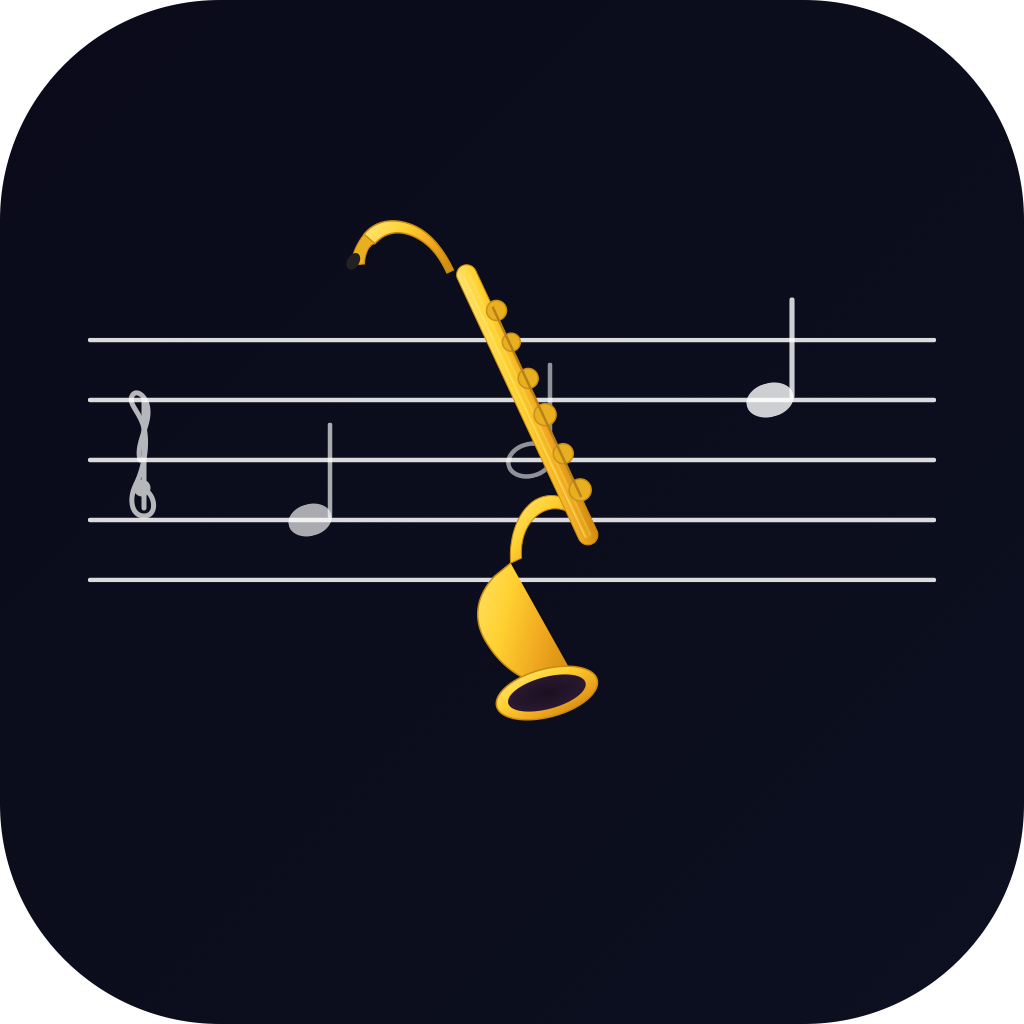
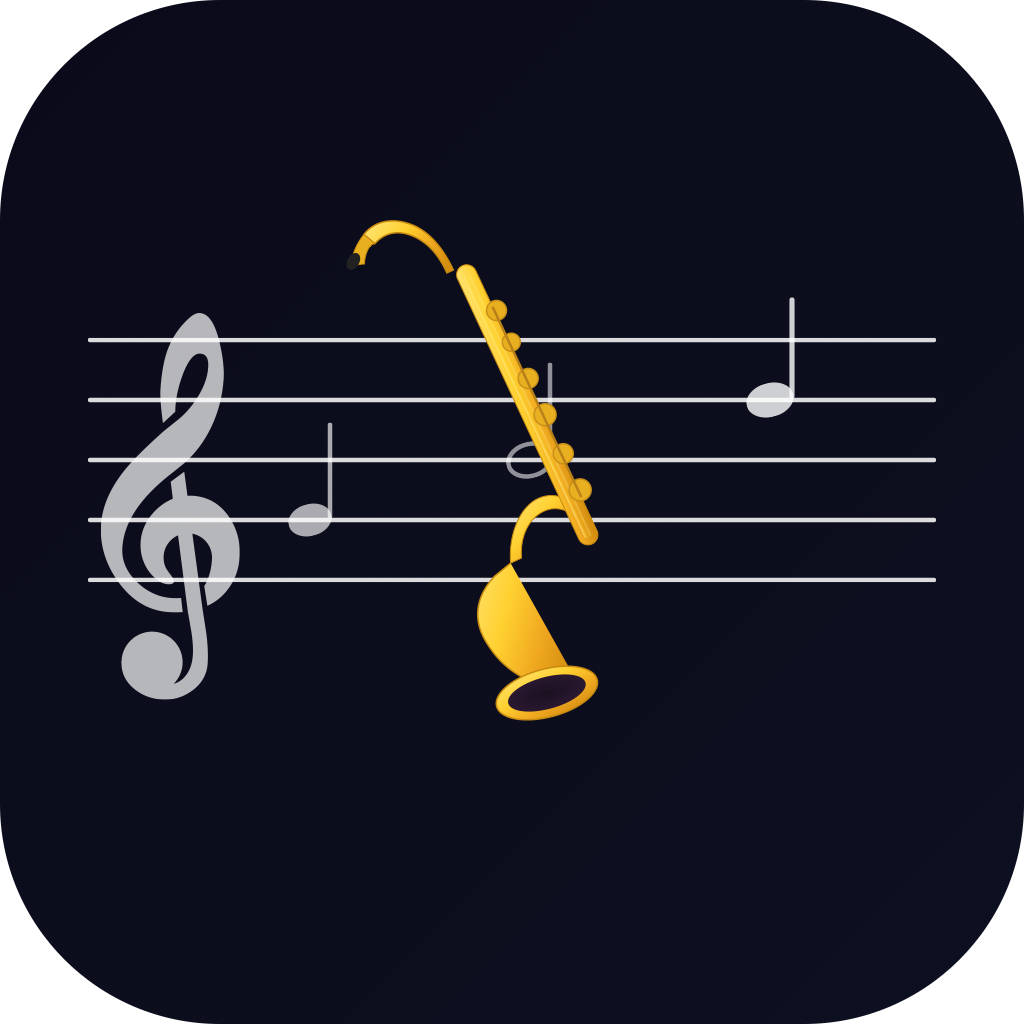
Fixed the strange looking of treble and bass clef

Changed region(s): [[0.0938, 0.2812, 0.25, 0.6875]]

diff --git a/rust/scorelib/src/renderer.rs b/rust/scorelib/src/renderer.rs
@@ -1061,38 +1061,114 @@ impl SvgBuilder {
     }
 
     fn treble_clef(&mut self, x: f64, y: f64) {
-        // Simplified treble clef using SVG paths
-        let path = format!(
-            "M{},{} \
-             c-2,-8 4,-16 4,-24 \
-             c0,-8 -6,-12 -8,-8 \
-             c-2,4 4,8 6,16 \
-             c2,8 0,20 -4,28 \
-             c-4,8 -2,16 4,16 \
-             c6,0 6,-8 2,-12",
-            x, y
-        );
+        // Professional treble clef (G clef) using path data from
+        // treble-clef-svgrepo-com.svg (two filled outlines).
+        //
+        // Original viewBox: 0 0 276.164 276.164
+        // G line in original coords ≈ y=148; center-x ≈ 138.
+        // Scaled by 0.27 and translated so the G line lands at (x, y).
+
+        let scale = 0.243;             // 10% smaller than 0.27
+        let tx = x - 138.0 * scale;  // ≈ x - 33.5
+        let ty = y - 148.0 * scale - 4.0;  // shifted up 4px
+
+        // Upper body — S-curve, hook, and vertical stroke outline
+        let p1 = "M156.716,61.478c-4.111,6.276-8.881,11.511-14.212,15.609\
+l-8.728,6.962c-13.339,11.855-22.937,21.433-28.542,28.464\
+c-10.209,12.788-15.806,25.779-16.65,38.611c-0.942,14.473,3.187,28.21,12.275,40.84\
+c9.636,13.458,21.8,20.754,36.164,21.69c3.291,0.218,6.897,0.182,9.896-0.015\
+l-1.121-10.104c-2.09,0.192-4.306,0.223-6.628,0.068\
+c-9.437-0.617-17.864-4.511-25.064-11.573c-7.524-7.333-10.895-15.415-10.287-24.7\
+c1.149-17.59,12.562-35.004,33.925-51.792l9.543-7.599\
+c8.394-7.174,15.192-16.191,20.216-26.825c4.971-10.556,7.886-21.983,8.673-33.96\
+c0.466-7.037-0.513-15.775-2.874-25.965c-3.241-13.839-7.854-20.765-14.136-21.179\
+c-2.232-0.138-4.676,0.986-7.658,3.617c-7.252,6.548-12.523,14.481-15.683,23.542\
+c-2.438,6.926-4.057,16.189-4.805,27.529c-0.313,4.72,0.313,13.438,1.805,23.962\
+l8.844-8.192c-0.028-1.183,0.005-2.413,0.096-3.703\
+c0.466-7.221,2.289-15.062,5.394-23.293c3.956-10.296,7.689-13.409,10.133-14.204\
+c0.668-0.218,1.32-0.298,2.015-0.254c3.185,0.212,6.358,1.559,5.815,9.979\
+C164.664,46.132,161.831,53.693,156.716,61.478z";
+
+        // Lower body — loop around G line, vertical stroke, and bottom ornament
+        let p2 = "M164.55,209.161c5.728-2.568,10.621-6.478,14.576-11.651\
+c5.055-6.561,7.897-14.316,8.467-23.047c0.72-10.719-1.854-20.438-7.617-28.895\
+c-6.322-9.264-14.98-14.317-25.745-15.026c-1.232-0.081-2.543-0.075-3.895,0.025\
+l-2.304-17.191l-9.668,7.112l1.483,12.194\
+c-5.789,2.393-10.827,6.17-15.017,11.255c-4.823,5.924-7.508,12.443-7.964,19.382\
+c-0.466,7.208,1.142,13.81,4.782,19.583c1.895,3.081,4.507,5.82,7.498,8.058\
+c4.906,3.65,10.563,3.376,11.459,1.393c0.906-1.983-2.455-5.095-5.09-9.248\
+c-1.502-2.351-2.242-5.173-2.242-8.497c0-7.053,4.256-13.116,10.317-15.799\
+l5.673,44.211l1.325,10.258c0.864,4.873,1.719,9.725,2.537,14.52\
+c1,6.488,1.352,12.112,1.041,16.715c-0.419,6.375-2.408,11.584-5.919,15.493\
+c-2.234,2.485-4.844,4.055-7.795,4.925c3.961-3.962,6.414-9.43,6.414-15.478\
+c0-12.075-9.792-21.872-21.87-21.872c-3.353,0-6.491,0.812-9.329,2.159\
+c-0.36,0.155-0.699,0.388-1.054,0.574c-0.779,0.425-1.559,0.85-2.286,1.362\
+c-0.249,0.187-0.487,0.403-0.732,0.605c-4.888,3.816-8.091,9.616-8.375,16.229\
+c0,0.01-0.011,0.021-0.011,0.031c0,0.005,0,0.01,0,0.016\
+c-0.013,0.311-0.09,0.59-0.09,0.896c0,0.259,0.067,0.492,0.078,0.74\
+c-0.011,7.084,2.933,13.179,8.839,18.118c5.584,4.666,12.277,7.28,19.892,7.777\
+c4.327,0.28,8.505-0.217,12.407-1.485c3.189-1.041,6.275-2.62,9.149-4.687\
+c6.96-5.022,10.75-11.584,11.272-19.532c0.399-6.063,0.094-13.235-0.937-21.411\
+l-2.838-18.429l-7.156-52.899c7.984,1.532,14.027,8.543,14.027,16.968\
+c0,5.986-1.937,15.431-5.551,20.376L164.55,209.161z";
+
         self.elements.push(format!(
-            r#"<path d="{}" fill="none" stroke="{}" stroke-width="2" stroke-linecap="round"/>"#,
-            path, NOTE_COLOR
+            r#"<g transform="translate({:.2},{:.2}) scale({})"><path d="{}" fill="{}"/><path d="{}" fill="{}"/></g>"#,
+            tx, ty, scale, p1, NOTE_COLOR, p2, NOTE_COLOR
         ));
-        // Dot at the curl
-        self.circle(x + 1.0, y + 14.0, 2.5, NOTE_COLOR);
     }
 
     fn bass_clef(&mut self, x: f64, y: f64) {
-        // Simplified bass clef
-        self.circle(x, y, 4.0, NOTE_COLOR);
-        let path = format!(
-            "M{},{} c8,2 12,8 12,16 c0,8 -4,14 -10,16",
-            x + 4.0, y - 2.0
-        );
+        // Professional bass clef (F clef) using path data from
+        // bass-clef-svgrepo-com.svg (three filled shapes).
+        //
+        // Original viewBox: 0 0 512 512
+        // F line sits at y_orig ≈ 169 (midpoint between the two dot centres).
+        // Dot centre spacing ≈ 167 units → maps to 1 staff space (10 units).
+        // Scale 0.06 keeps the dots at the correct staff-space interval.
+
+        let scale = 0.06;
+        let tx = x - 176.0 * scale - 2.0;   // body start ≈ x, shifted left a bit
+        let ty = y - 169.0 * scale;          // F line lands at y
+
+        // Main body curve
+        let p1 = "M176.014,0l-2.823,0.01\
+C89.091,1.164,20.78,63.557,15.904,118.564\
+c-3.125,35.072,4.693,63.941,22.568,83.494\
+c16.307,17.803,39.765,26.836,69.727,26.836\
+c31.095,0,61.603-29.77,61.603-60.106\
+c0-30.803-25.076-55.869-55.888-55.869\
+c-16.569,0-27.575,7.323-34.858,12.179\
+c-2.853,1.892-5.796,3.854-7.121,3.854\
+c-0.446,0-1.477-1.184-2.458-5.635\
+c-3.399-15.335,1.902-33.644,14.212-48.98\
+c10.399-12.978,34.858-34.726,81.876-34.726\
+c65.67,0,101.833,52.894,101.833,148.952\
+c0,192.852-165.703,271.845-216.483,291.459\
+c-10.398,4.016-13.778,12.716-12.492,19.553\
+C39.828,507.002,45.947,512,53.686,512\
+c2.448,0,5.037-0.496,7.657-1.477l5.807-2.165\
+C262.916,435.82,362.19,326.247,362.19,182.648\
+C362.19,57.164,265.688,0,176.014,0z";
+
+        // Upper dot (4th space, above F line)
+        let p2 = "M455.486,126.84\
+c22.771,0,41.282-18.522,41.282-41.292\
+c0-22.76-18.512-41.271-41.282-41.271\
+c-22.759,0-41.281,18.511-41.281,41.271\
+C414.205,108.318,432.726,126.84,455.486,126.84z";
+
+        // Lower dot (3rd space, below F line)
+        let p3 = "M455.486,211.365\
+c-22.759,0-41.281,18.522-41.281,41.282\
+c0,22.77,18.522,41.281,41.281,41.281\
+c22.771,0,41.282-18.511,41.282-41.281\
+C496.768,229.887,478.256,211.365,455.486,211.365z";
+
         self.elements.push(format!(
-            r#"<path d="{}" fill="none" stroke="{}" stroke-width="2" stroke-linecap="round"/>"#,
-            path, NOTE_COLOR
+            r#"<g transform="translate({:.2},{:.2}) scale({})"><path d="{}" fill="{}"/><path d="{}" fill="{}"/><path d="{}" fill="{}"/></g>"#,
+            tx, ty, scale, p1, NOTE_COLOR, p2, NOTE_COLOR, p3, NOTE_COLOR
         ));
-        self.circle(x + 16.0, y + 4.0, 2.0, NOTE_COLOR);
-        self.circle(x + 16.0, y + 14.0, 2.0, NOTE_COLOR);
     }
 
     fn alto_clef(&mut self, _x: f64, y: f64) {
